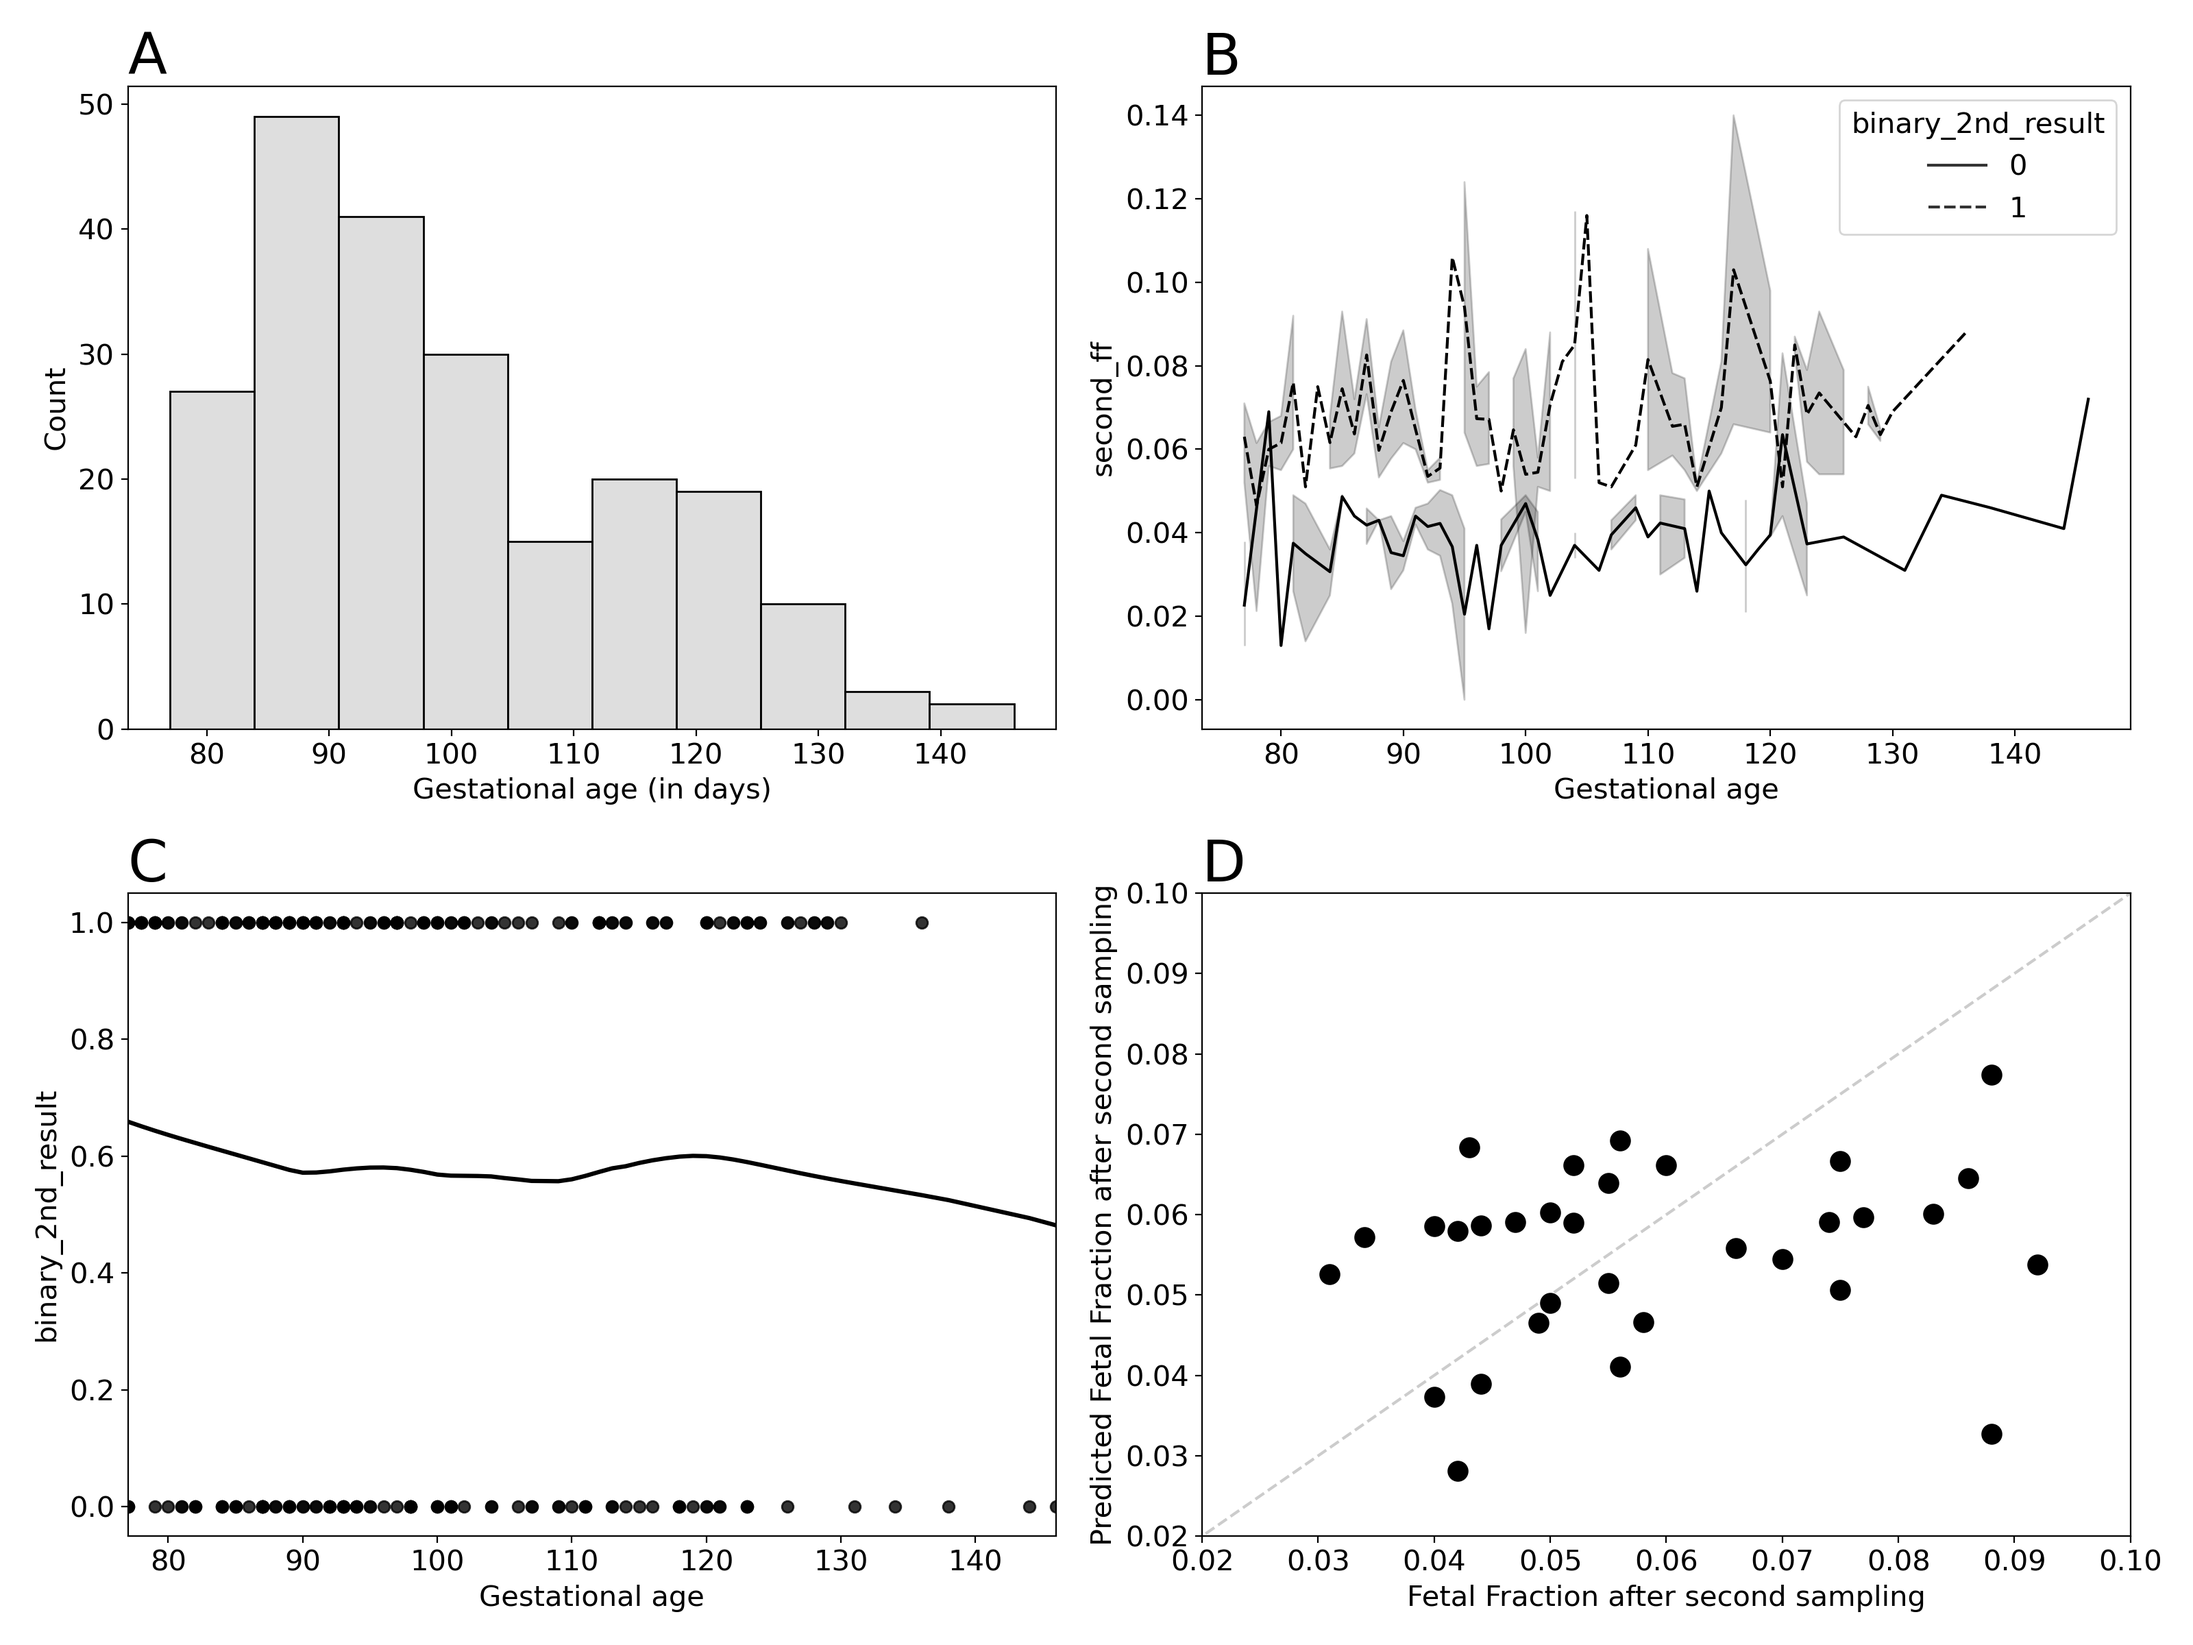
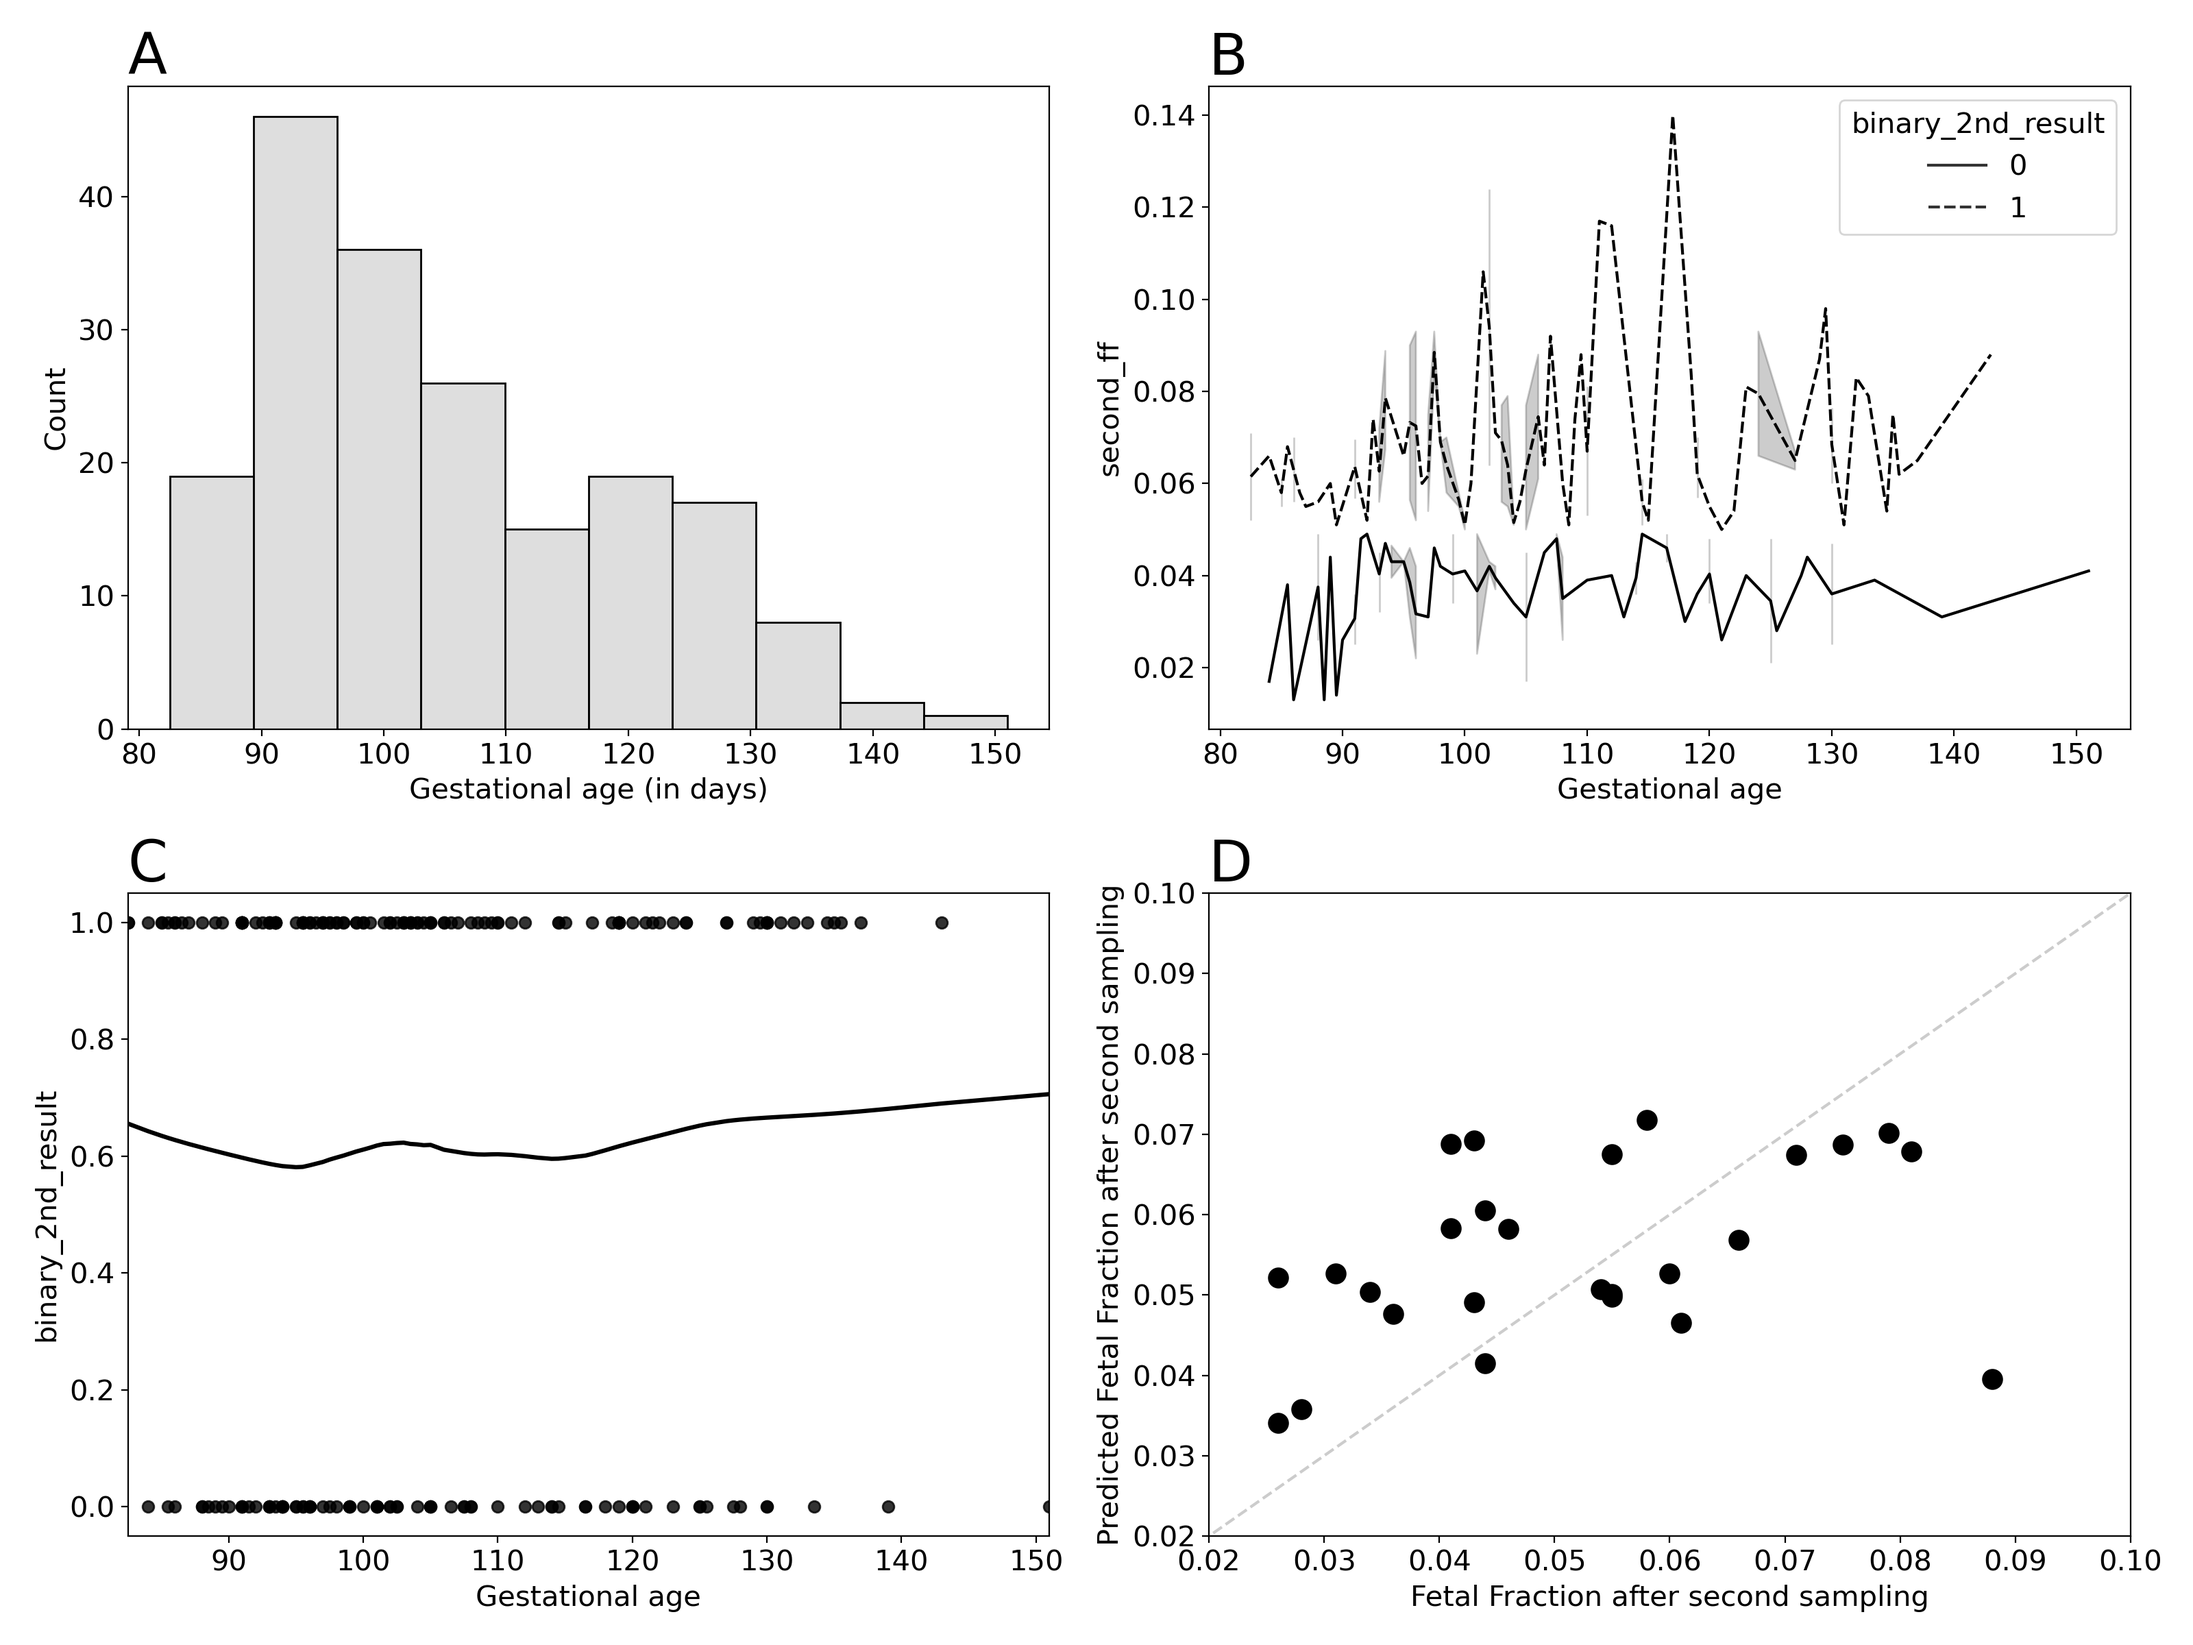
plots

diff --git a/scripts/ml.py b/scripts/ml.py
@@ -116,7 +116,7 @@ def trymodel(model, params, X, y, X_val, y_val):
 
 # %% Ridge
 ridge_res = []
-for alpha in np.linspace(62, 68, 41):
+for alpha in np.linspace(20, 80, 41):
     t, v, m = trymodel(Ridge(), {"alpha": alpha}, train_X_s, y_train, val_X_s, y_val)
     
     ridge_res.append([alpha, t, v])
@@ -128,6 +128,8 @@ plt.plot(ridge_res[:, 0], ridge_res[:, 2], '.', label='validation')
 plt.legend()
 
 
+# %%
+ALPHA = 50
 
 # %%
 fig, ax = plt.subplots(2, 2, figsize=(16, 12))
@@ -145,7 +147,7 @@ sns.regplot(x = "Gestational age", y = "binary_2nd_result", color='black', data=
              ax=ax[1, 0], lowess=True)
 ax[1, 0].set_title("C", loc="left", fontsize=30)
 
-t, v, m = trymodel(Ridge(), {"alpha": 64.5}, train_X_s, y_train, val_X_s, y_val)
+t, v, m = trymodel(Ridge(), {"alpha": ALPHA}, train_X_s, y_train, val_X_s, y_val)
 
 yhat_train = m.predict(train_X_s)
 yhat_val = m.predict(val_X_s)
@@ -167,7 +169,7 @@ plt.savefig('plots/4plots.png', dpi=200)
 # %%
 fig, ax = plt.subplots(figsize=(9, 7))
 
-t, v, m = trymodel(Ridge(), {"alpha": 64.5}, train_X_s, y_train, val_X_s, y_val)
+t, v, m = trymodel(Ridge(), {"alpha": ALPHA}, train_X_s, y_train, val_X_s, y_val)
 
 yhat_train = m.predict(train_X_s)
 yhat_val = m.predict(val_X_s)
